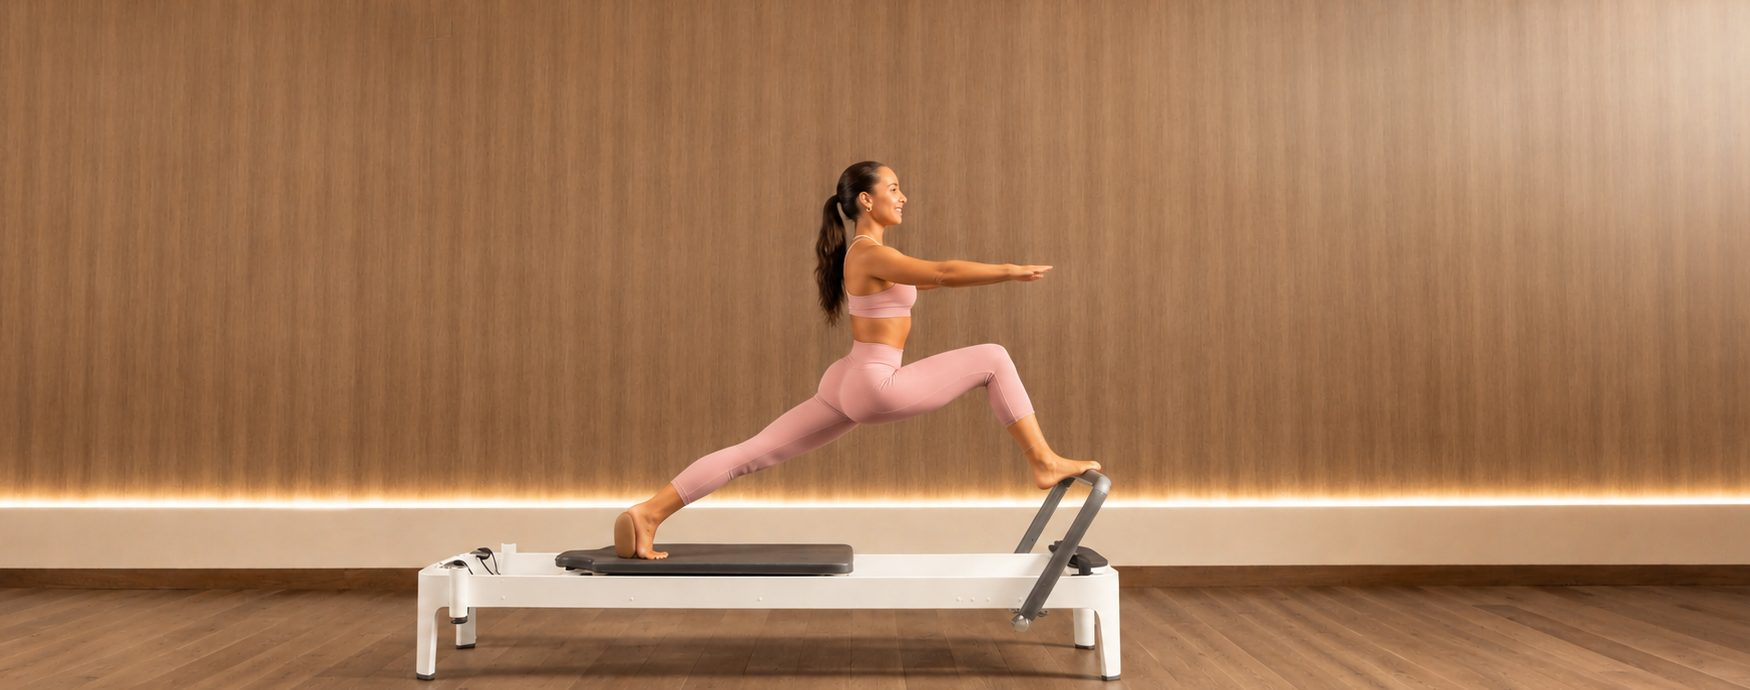
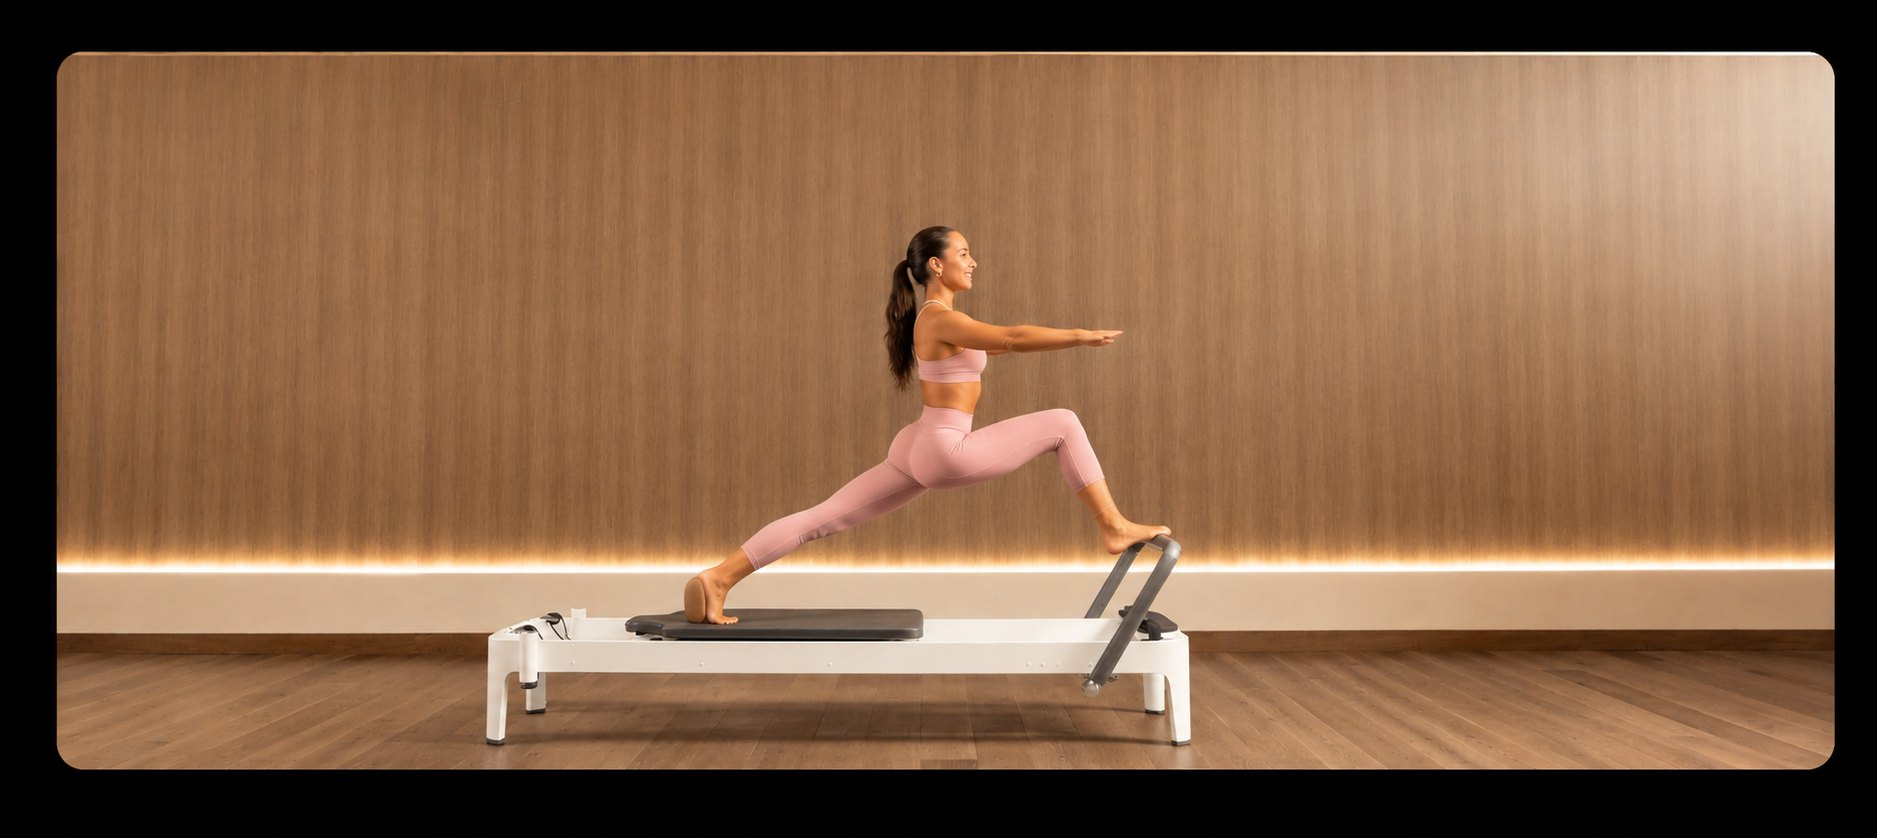
Bannière : recadrage portrait haute résolution sur mobile

diff --git a/index.html b/index.html
@@ -1009,7 +1009,7 @@
     @media (max-width:760px){
       .ban{padding:16px 12px 32px}
       .ban__card{aspect-ratio:auto; min-height:560px; align-items:flex-end}
-      .ban__img img{object-position:47% 50%}
+      .ban__img img{object-position:50% 50%}
       .ban__card::before{background:linear-gradient(0deg,rgba(35,36,30,.72) 0%,rgba(35,36,30,.35) 45%,rgba(35,36,30,0) 70%)}
       .ban__inner{padding:28px 18px 34px}
       .ban__title{font-size:clamp(30px,8.6vw,40px)}
@@ -1669,7 +1669,10 @@
 <section class="ban" id="contact-banniere" aria-labelledby="ban-title">
   <div class="ban__card">
     <div class="ban__img">
-      <img src="image/baniere.jpg" srcset="image/baniere-900.jpg 900w, image/baniere.jpg 1750w" sizes="(max-width:760px) 100vw, 1500px" alt="Une élève en fente sur le Reformer, dans la lumière chaude du studio Chacha" loading="lazy">
+      <picture>
+        <source media="(max-width:760px)" srcset="image/baniere-mobile.jpg">
+        <img src="image/baniere.jpg" srcset="image/baniere-900.jpg 900w, image/baniere.jpg 1750w" sizes="(max-width:760px) 100vw, 1500px" alt="Une élève en fente sur le Reformer, dans la lumière chaude du studio Chacha" loading="lazy">
+      </picture>
     </div>
     <div class="ban__inner">
       <p class="ban__kicker">Chacha Pilates Studio</p>
